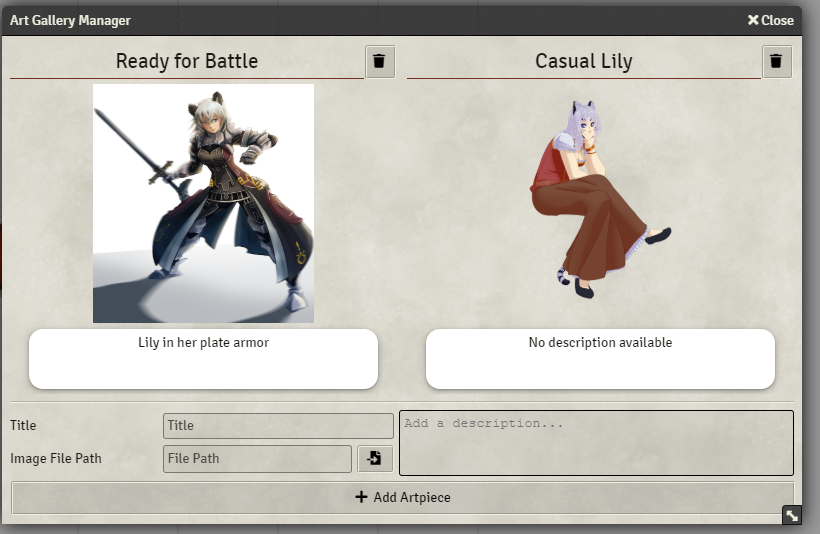
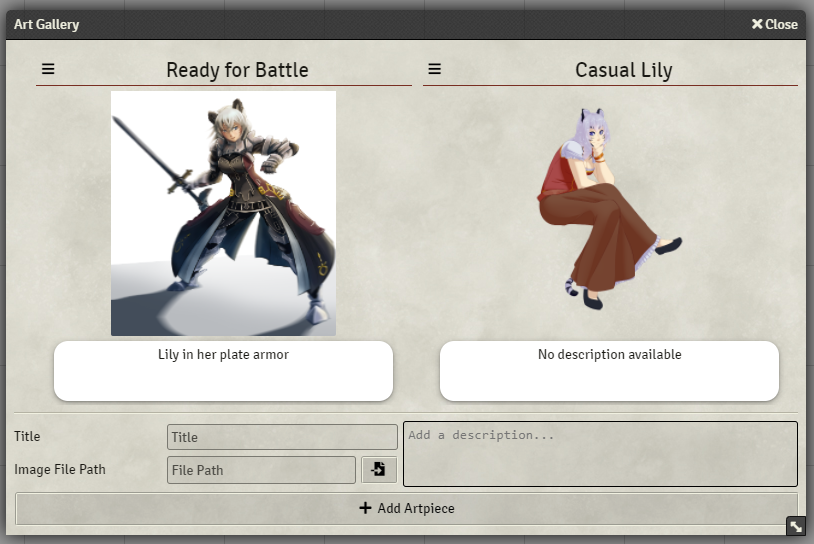
updated compatability to 0.8.4

Changed region(s): [[0.0, 0.0, 1.0, 0.9888]]

diff --git a/styles/gallery.css b/styles/gallery.css
@@ -1,83 +1,83 @@
 .gallery {
-    --artpiece-height: 350px;
-    --shadow: 0 0.125em 0.5em rgba(0, 0, 0, 0.3),
-        0 0.0625em 0.125em rgba(0, 0, 0, 0.2);
+  --artpiece-height: 350px;
+  --shadow: 0 0.125em 0.5em rgba(0, 0, 0, 0.3),
+    0 0.0625em 0.125em rgba(0, 0, 0, 0.2);
 }
 
 .gallery .inputs {
-    margin-bottom: 5px;
+  margin-bottom: 5px;
 }
 
 .gallery #context-menu {
-    min-width: 200px;
-    text-align: left;
+  min-width: 250px;
+  text-align: left;
 }
 
 .gallery .inputs textarea {
-    resize: none;
-    margin-left: 5px;
+  resize: none;
+  margin-left: 5px;
 }
 
 .gallery .empty .background {
-    width: 100%;
-    color: rgba(0, 0, 0, 0.2);
-    font-size: 15em;
-    text-align: center;
+  width: 100%;
+  color: rgba(0, 0, 0, 0.2);
+  font-size: 15em;
+  text-align: center;
 }
 .gallery .exhibit {
-    max-height: calc((var(--artpiece-height) * 2) + 20px);
-    overflow: auto;
-    display: flex;
-    justify-content: space-evenly;
-    flex-wrap: wrap;
+  max-height: calc((var(--artpiece-height) * 2) + 20px);
+  overflow: auto;
+  display: flex;
+  justify-content: space-evenly;
+  flex-wrap: wrap;
 }
 
 .gallery .artpiece + .artpiece {
-    margin-left: 10px;
+  margin-left: 10px;
 }
 
 .gallery .artpiece .menu {
-    flex: 0;
-    align-self: flex-start;
-    background: transparent;
-    border: none;
-    margin-right: 0;
-    border-bottom: 1px solid #782e22;
-    border-radius: 0;
+  flex: 0;
+  align-self: flex-start;
+  background: transparent;
+  border: none;
+  margin-right: 0;
+  border-bottom: 1px solid #782e22;
+  border-radius: 0;
 }
 
 .gallery .exhibit .artpiece {
-    flex: 1 0 var(--artpiece-height);
-    max-width: 450px;
-    height: var(--artpiece-height);
-    display: grid;
-    grid-template-columns: 1fr;
-    grid-template-rows: max-content calc(var(--artpiece-height) - 100px) 70px;
+  flex: 1 0 var(--artpiece-height);
+  max-width: 450px;
+  height: var(--artpiece-height);
+  display: grid;
+  grid-template-columns: 1fr;
+  grid-template-rows: max-content calc(var(--artpiece-height) - 100px) 70px;
 }
 
 .gallery .exhibit .artpiece .title {
-    justify-self: stretch;
-    margin: 0;
-    line-height: 30px;
-    text-align: center;
+  justify-self: stretch;
+  margin: 0;
+  line-height: 30px;
+  text-align: center;
 }
 
 .gallery .exhibit .artpiece img {
-    object-fit: contain;
-    place-self: center;
-    max-height: 100%;
-    justify-self: center;
-    border: none;
-    padding-top: 5px;
+  object-fit: contain;
+  place-self: center;
+  max-height: 100%;
+  justify-self: center;
+  border: none;
+  padding-top: 5px;
 }
 
 .gallery .exhibit .artpiece .description {
-    overflow: auto;
-    width: 90%;
-    margin: 5px auto;
-    padding: 5px;
-    text-align: center;
-    background-color: #fff;
-    border-radius: 1em;
-    box-shadow: var(--shadow);
+  overflow: auto;
+  width: 90%;
+  margin: 5px auto;
+  padding: 5px;
+  text-align: center;
+  background-color: #fff;
+  border-radius: 1em;
+  box-shadow: var(--shadow);
 }
